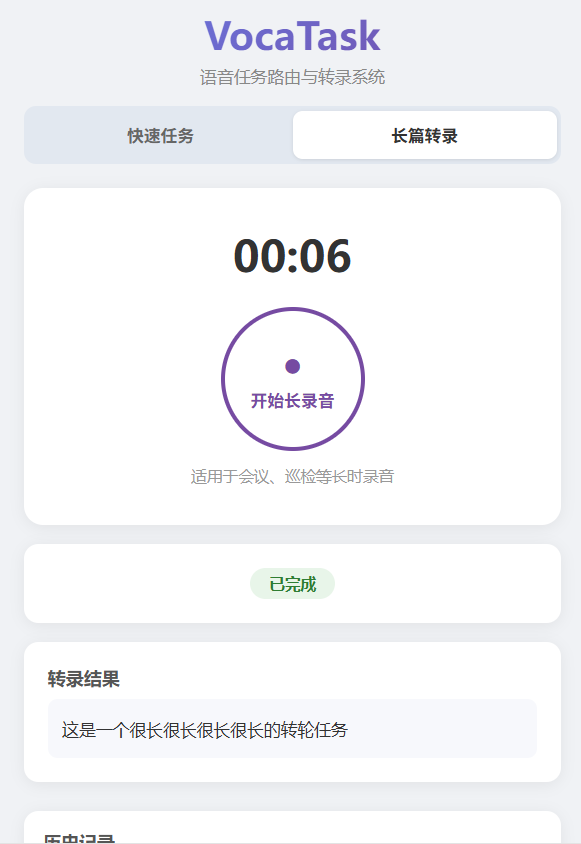
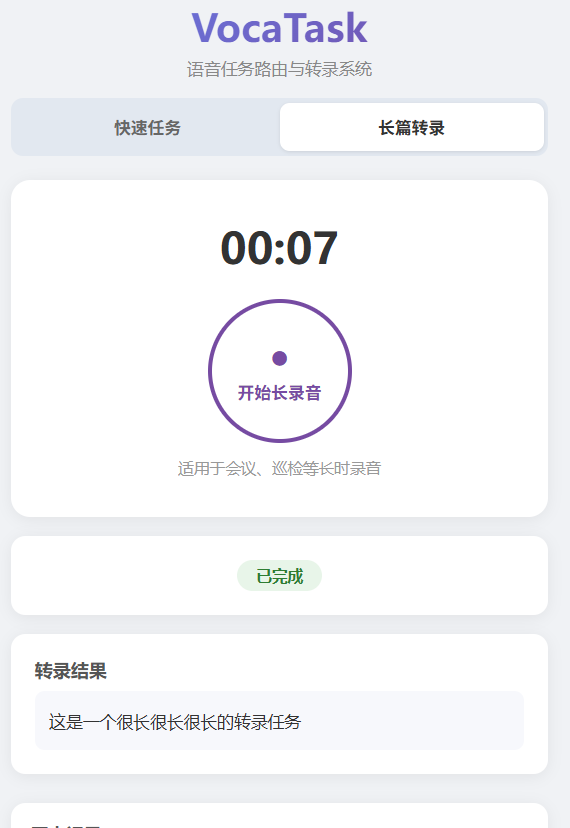
Update PoC screenshots: side-by-side layout, replace transcription image

diff --git a/TIMELINE.md b/TIMELINE.md
@@ -6,13 +6,12 @@
 
 ## PoC Screenshots
 
-**Quick Task Delegation / 快速任务委派**
-
-![Quick Task](screenshots/quick_task.png)
-
-**Long-Form Transcription / 长篇转录**
-
-![Long Transcription](screenshots/long_transcription.png)
+<table>
+<tr>
+<td><img src="screenshots/quick_task.png" width="300"/><br/><b>Quick Task / 快速任务</b></td>
+<td><img src="screenshots/long_transcription.png" width="300"/><br/><b>Long Transcription / 长篇转录</b></td>
+</tr>
+</table>
 
 ---
 
